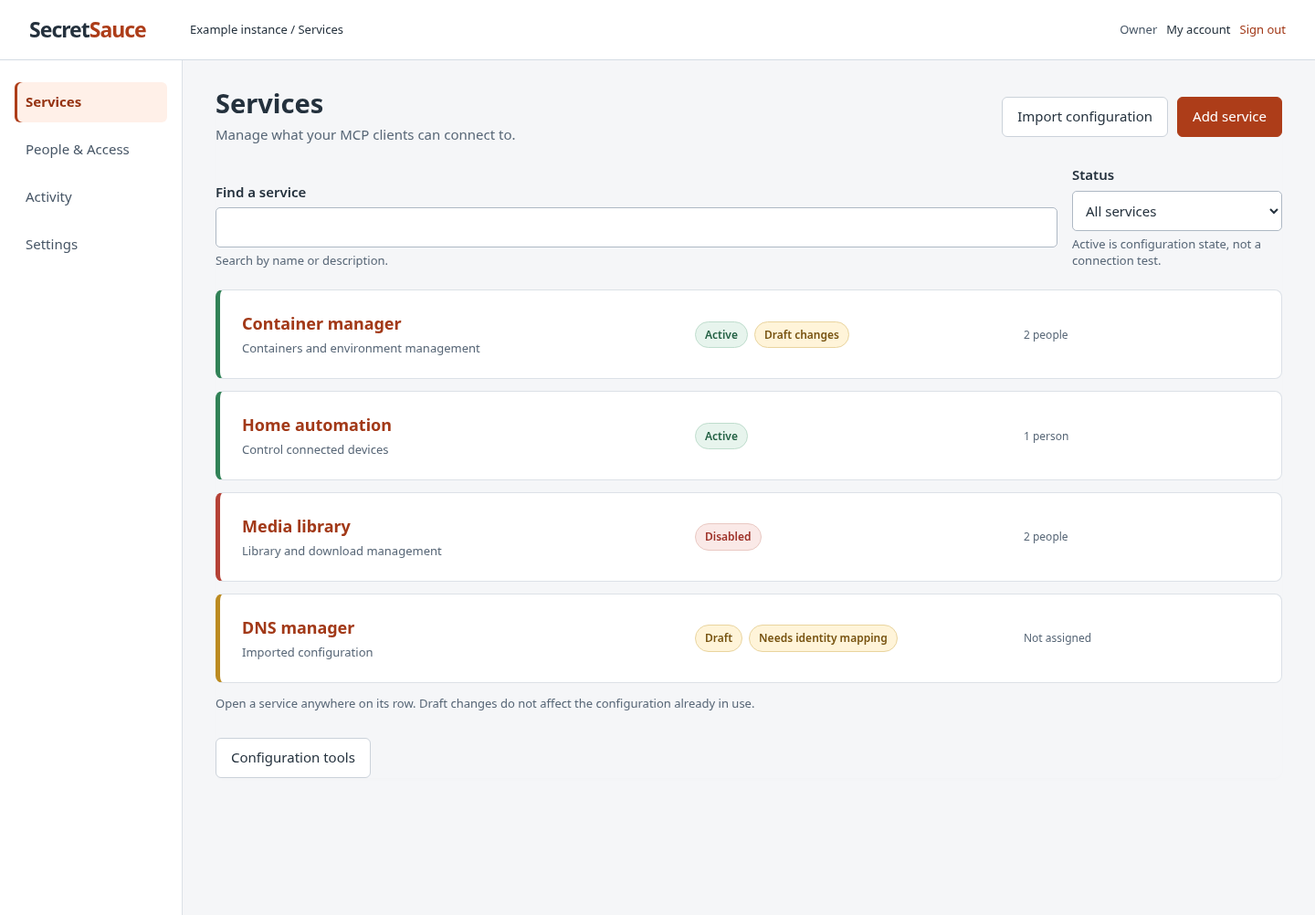
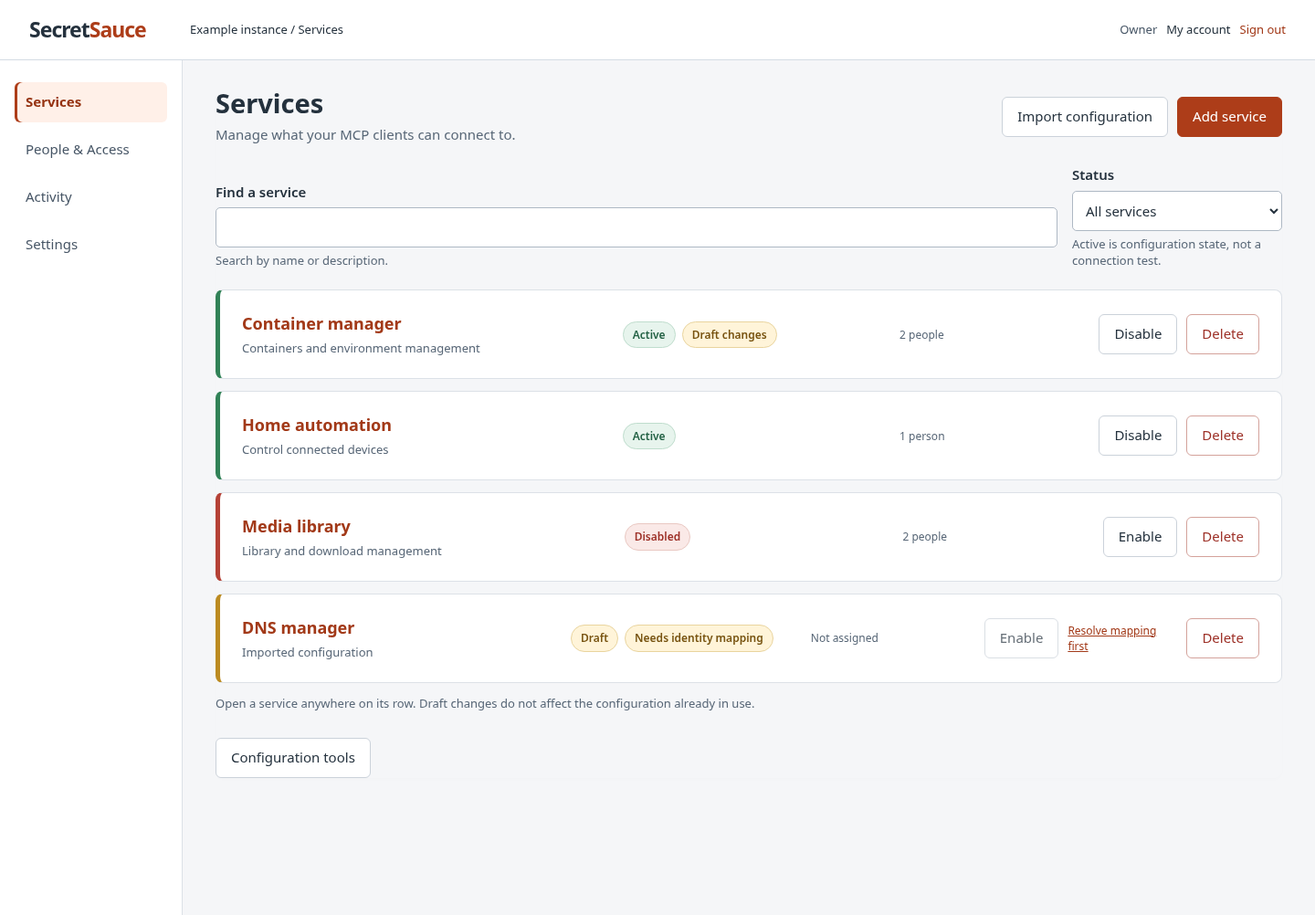
delivery: M26 confirm service lifecycle row actions

diff --git a/src/consoleServicePage.ts b/src/consoleServicePage.ts
@@ -21,9 +21,10 @@ function dialog(title,message,buttons){const focus=document.activeElement,d=el('
 function confirmAction(title,message,fn){dialog(title,message,[['Cancel',null],[title,fn]]);}
 function leaveEditor(fn){if(accountDirty){leaveAccount(()=>leaveEditor(fn));return;}if(settingsDirty){leaveSettings(()=>leaveEditor(fn));return;}if(editorDirty){dialog('Unsaved draft changes','Stay to keep editing, save non-secret work as a draft, or discard these edits. Credential values and immediate actions are never undone by discard.',[['Stay',null],['Save draft',async()=>{try{await saveEditor();serviceEditor=null;await fn();}catch(e){serviceError(e);}}],['Discard',async()=>{editorDirty=false;serviceEditor=null;await fn();}]]);}else{serviceEditor=null;fn();}}
 function validateFields(f){const invalid=[...f.querySelectorAll('input,select')].filter(n=>!n.checkValidity());if(!invalid.length)return true;showError('Complete the highlighted fields before continuing.');for(const n of invalid){for(let d=n.closest('details');d;d=d.parentElement?.closest('details'))d.open=true;n.setAttribute('aria-invalid','true');const label=f.querySelector('label[for="'+n.id+'"]')?.textContent??n.name;const message=el('p','Check '+label+'.');message.id=n.id+'-error';document.getElementById(message.id)?.remove();const described=new Set((n.getAttribute('aria-describedby')||'').split(' ').filter(Boolean));described.add(message.id);n.setAttribute('aria-describedby',[...described].join(' '));n.after(message);const a=el('a','Check '+label);a.href='#'+n.id;a.onclick=e=>{e.preventDefault();n.focus();};errors.append(a,el('br'));}return false;}
-function serviceError(error){if(serviceEditor&&error.message.startsWith('mappings:')){showError(error.message,error.operation);action(errors,'Resolve identity mappings',()=>openMappingRecovery(serviceEditor.id));return;}if(/Forbidden|Sign in again/.test(error.message)){serviceEditor=null;editorDirty=false;if(servicesSnapshot)servicesSnapshot.writable=false;start().then(()=>showError(error.message,error.operation));return;}showError(error.message,error.operation);if(serviceEditor&&/Invalid|incomplete/.test(error.message)){for(let i=0;i<4;i++)action(errors,'Check '+steps[i],()=>renderEditor(i));}if(error.comparison){const box=el('div');box.append(el('h2','Current and proposed comparison'));renderConfig(box,'Current applied configuration',error.comparison.applied);renderConfig(box,'Your proposed configuration',serviceEditor?.service);action(box,'Reload current revision for review',async()=>{try{const d=await api('services/'+encodeURIComponent(serviceEditor.id));serviceEditor.base=d.revision;serviceEditor.generation=d.draft?.generation??0;if(d.applied)serviceEditor.service.access={users:d.assignments};editorDirty=true;renderEditor(serviceEditor.step);}catch(e){serviceError(e);}});errors.append(box);}else if(/Connection|fetch|network/i.test(error.message)){errors.append(el('p','Result may be unknown. Reload the target and inspect its latest state or operation status before repeating an immediate action.'));action(errors,'Reload service state',()=>leaveEditor(()=>serviceDetail(serviceEditor?.id)));}}
+function serviceError(error){if(serviceEditor&&error.message.startsWith('mappings:')){showError(error.message,error.operation);action(errors,'Resolve identity mappings',()=>openMappingRecovery(serviceEditor.id));return;}if(/Forbidden|Sign in again/.test(error.message)){serviceEditor=null;editorDirty=false;if(servicesSnapshot)servicesSnapshot.writable=false;start().then(()=>showError(error.message,error.operation));return;}showError(error.message,error.operation);if(serviceEditor&&/Invalid|incomplete/.test(error.message)){for(let i=0;i<4;i++)action(errors,'Check '+steps[i],()=>renderEditor(i));}if(error.comparison&&serviceEditor){const box=el('div');box.append(el('h2','Current and proposed comparison'));renderConfig(box,'Current applied configuration',error.comparison.applied);renderConfig(box,'Your proposed configuration',serviceEditor?.service);action(box,'Reload current revision for review',async()=>{try{const d=await api('services/'+encodeURIComponent(serviceEditor.id));serviceEditor.base=d.revision;serviceEditor.generation=d.draft?.generation??0;if(d.applied)serviceEditor.service.access={users:d.assignments};editorDirty=true;renderEditor(serviceEditor.step);}catch(e){serviceError(e);}});errors.append(box);}else if(/Connection|fetch|network/i.test(error.message)){errors.append(el('p','Result may be unknown. Reload the target and inspect its latest state or operation status before repeating an immediate action.'));action(errors,'Reload service state',()=>leaveEditor(()=>serviceDetail(serviceEditor?.id)));}}
 let serviceListFilter={search:'',status:'all'};
 async function services(state){
+ if(new URLSearchParams(location.search).has('service')){const url=new URL(location.href);url.searchParams.delete('service');history.replaceState(history.state,'',url);}
  currentNav('services-nav');workspaceState=state??workspaceState;serviceEditor=null;editorDirty=false;form('Services').remove();
  const title=el('div');title.className='services-title';const copy=el('div');copy.append(el('h1','Services'));copy.append(el('p','Manage what your MCP clients can connect to.'));title.append(copy);content.append(title);
  content.setAttribute('aria-busy','true');try{
@@ -32,10 +33,19 @@ async function services(state){
  const rows=el('div');rows.className='service-list';content.append(rows);
  function render(){serviceListFilter={search:search.value,status:status.value};rows.replaceChildren();const matches=servicesSnapshot.services.filter(s=>(status.value==='all'||s.lifecycle===status.value)&&(s.name+' '+s.description+' '+s.id).toLowerCase().includes(search.value.toLowerCase()));if(!matches.length)rows.append(el('p','No services match. Clear filters or add a service when permitted.'));
  for(const s of matches){const row=el('article');row.className='service-row lifecycle-row';row.dataset.lifecycle=s.lifecycle;const info=el('div'),states=el('div');states.className='service-chips';const h=el('h2');if(!member){const link=el('a',s.name);link.href='?service='+encodeURIComponent(s.id);link.setAttribute('aria-label','Open '+s.name);link.onclick=e=>{if(e.button!==0||e.ctrlKey||e.metaKey||e.shiftKey||e.altKey)return;e.preventDefault();serviceDetail(s.id);};h.append(link);}else h.textContent=s.name;info.append(h,el('p',s.description||'No description'));
- function chip(text,kind){const n=el('span',text);n.className='service-chip '+kind;states.append(n);}chip(s.lifecycle,s.lifecycle==='Active'?'active':s.lifecycle==='Draft'?'pending':'off');if(s.hasDraft&&s.lifecycle!=='Draft')chip('Draft changes','pending');if(s.readiness==='Value missing')chip('Value missing','pending');else if(s.activationBlocker&&!member)chip(s.activationBlocker.includes('mapping')?'Needs identity mapping':'Needs configuration','pending');const count=el('span',s.assignmentCount?s.assignmentCount+' '+(s.assignmentCount===1?'person':'people'):'Not assigned');count.className='service-count';row.append(info,states,count);rows.append(row);}}
+ function chip(text,kind){const n=el('span',text);n.className='service-chip '+kind;states.append(n);}chip(s.lifecycle,s.lifecycle==='Active'?'active':s.lifecycle==='Draft'?'pending':'off');if(s.hasDraft&&s.lifecycle!=='Draft')chip('Draft changes','pending');if(s.readiness==='Value missing')chip('Value missing','pending');else if(s.activationBlocker&&!member)chip(s.activationBlocker.includes('mapping')?'Needs identity mapping':'Needs configuration','pending');const count=el('span',s.assignmentCount?s.assignmentCount+' '+(s.assignmentCount===1?'person':'people'):'Not assigned');count.className='service-count';row.append(info,states,count);if(servicesSnapshot.writable){const controls=el('div');controls.className='services-row-actions';if(s.lifecycle==='Archived')action(controls,'Restore',()=>serviceRowAction(s,'unarchive'));else{const enabling=s.lifecycle!=='Active';const b=action(controls,enabling?'Enable':'Disable',()=>serviceRowAction(s,enabling?'enable':'disable'));if(enabling&&s.activationBlocker){b.disabled=true;const reason=el('span',s.activationBlocker);reason.className='service-blocker';reason.id='service-blocker-'+rows.children.length;b.setAttribute('aria-describedby',reason.id);const fix=el('a',s.activationBlocker.includes('mapping')?'Resolve mapping first':s.activationBlocker);fix.id=reason.id;fix.className='service-blocker';fix.href='?service='+encodeURIComponent(s.id);fix.onclick=e=>{e.preventDefault();s.activationBlocker.includes('mapping')?openMappingRecovery(s.id):serviceDetail(s.id,'Configuration');};controls.append(fix);}const del=action(controls,'Delete',()=>serviceRowAction(s,'archive'));del.classList.add('danger');}row.append(controls);}rows.append(row);}}
  search.oninput=render;status.onchange=render;render();content.append(el('p','Open a service anywhere on its row. Draft changes do not affect the configuration already in use.'));if(!member)action(content,'Configuration tools',()=>configurationTools());
  }catch(e){serviceError(e);}finally{content.removeAttribute('aria-busy');editorDirty=false;}}
-async function serviceDetail(id,tab='Overview'){currentNav('services-nav');try{if(!id){await services();return;}const d=await api('services/'+encodeURIComponent(id));form(d.applied?.name??d.draft?.content.name??id);content.append(el('p','Service: '+id+' · '+d.lifecycle+' · Applied revision '+d.revision+' · '+(d.draft?'Saved draft changes':'No saved draft changes')));const tabs=el('nav');tabs.className='tabs';tabs.setAttribute('aria-label','Service detail');for(const name of ['Overview','Configuration','Access','Activity']){const b=action(tabs,name,()=>serviceDetail(id,name));if(name===tab)b.setAttribute('aria-current','page');}content.append(tabs);const writable=servicesSnapshot?.writable;if(d.mappingIssues?.length){const notice=el('div');notice.className='mapping-callout';notice.append(el('h2','Choose who the imported accounts refer to'),el('p',d.mappingIssues.length+' identity mapping(s) need attention before review.'));action(notice,'Resolve identity mappings',()=>openMappingRecovery(id));content.append(notice);}if(tab==='Overview'){renderConfig(content,'Applied overview',d.applied);if(d.exceptions.length)content.append(el('p','Active exceptions: '+d.exceptions.join('; ')));if(writable){if(d.lifecycle!=='Archived')action(content,d.applied?'Edit configuration':'Continue setup',()=>editService(d),false);const lifecycleAction=d.lifecycle==='Archived'?'unarchive':'disable';if(d.lifecycle==='Active'||d.lifecycle==='Archived')action(content,lifecycleAction==='unarchive'?'Unarchive service':'Disable service',()=>confirmAction(lifecycleAction==='unarchive'?'Unarchive service':'Disable service','Target: '+id+'. '+(lifecycleAction==='unarchive'?'Returns to Disabled. A fresh review is required to enable.':'Immediately stop new admissions and revoke references. Already-dispatched work may complete. Discarding drafts cannot undo this action.'),()=>serviceCommand('lifecycle',{id,action:lifecycleAction,confirmed:true},()=>serviceDetail(id))));if(d.lifecycle!=='Archived')action(content,'Archive service',()=>confirmAction('Archive service','Target: '+id+'. Stop new admission and revoke references immediately. History is retained; unarchive returns Disabled.',()=>serviceCommand('lifecycle',{id,action:'archive',confirmed:true},()=>serviceDetail(id))));}}if(tab==='Configuration'){action(content,'Safe policy tester',()=>policyTester(id));action(content,'Configuration tools',()=>configurationTools());content.append(el('p','Secret detection inherits shared Secretlint and sensitive-name catalogs from Settings. Active per-rule exceptions are included below.'));action(content,'View shared secret detection',()=>settings('protection'));renderConfig(content,'Applied configuration',d.applied);renderConfig(content,'Saved draft',d.draft?.content);if(writable&&d.lifecycle!=='Archived')action(content,'Edit configuration',()=>editService(d),false);content.append(el('h2','Credential values'),el('p','Values are write-only. Discarding a draft never undoes creation, replacement or deletion.'));for(const c of d.credentials){const row=el('article');row.className='card';row.append(el('h3',c.id),el('p','Available · Version '+c.version+' · Last changed '+new Date(c.changed).toLocaleString()));if(writable){const value=editField(row,'New value for '+c.id,'replace-'+c.id,'',()=>{},false,'password');action(row,'Replace value '+c.id,()=>confirmAction('Replace value','Target: '+id+' / '+c.id+'. Immediately invalidate affected references; the value will never be shown again.',async()=>{const secret=value.value;value.value='';await serviceCommand('credential',{id,credential:c.id,action:'replace',value:secret,confirmed:true},()=>serviceDetail(id,'Configuration'));}));action(row,'Delete value '+c.id,()=>confirmAction('Delete value','Target: '+id+' / '+c.id+'. Immediate deletion. Configuration dependencies must be removed and applied first.',()=>serviceCommand('credential',{id,credential:c.id,action:'delete',confirmed:true},()=>serviceDetail(id,'Configuration'))));}content.append(row);}}if(tab==='Access'){content.append(el('p','Explicit assignments control execution separately from administrative roles.'));for(const user of d.assignments){const label=servicesSnapshot?.eligible.find(u=>u.id===user)?.email??user;content.append(el('p','Assigned: '+label));if(writable)action(content,'Remove access '+label,()=>confirmAction('Remove access','Target: '+id+' / '+label+'. Block new admission and revoke this identity’s references immediately. Dispatched work may complete.',()=>serviceCommand('access',{id,user,action:'remove',confirmed:true},()=>serviceDetail(id,'Access'))));}if(writable&&d.applied){const targets=(servicesSnapshot?.eligible??[]).filter(u=>!d.assignments.includes(u.id));if(targets.length){const select=choice(content,'Eligible enrolled identity','access-user',targets.map(u=>[u.id,u.email+' · '+u.role]),targets[0].id,()=>{});action(content,'Grant service access',()=>confirmAction('Grant service access','Target: '+id+'. Explicitly grant execution to the selected eligible identity immediately; policy still applies.',()=>serviceCommand('access',{id,user:select.value,action:'grant',confirmed:true},()=>serviceDetail(id,'Access'))));}}}if(tab==='Activity'){await activity(id);content.prepend(tabs);action(content,'Back to Services',()=>services());return;}action(content,'Back to Services',()=>services());editorDirty=false;}catch(e){serviceError(e);}}
+async function serviceRowAction(s,kind){
+ const verb={archive:'Delete',disable:'Disable',unarchive:'Restore',enable:'Enable'}[kind];
+ const message=kind==='archive'?'This removes the service from normal use and immediately blocks new requests and revokes references. Its configuration, history and audit records are retained in Archived services. You can restore it later. A restored service is Disabled until you explicitly review and enable it.':kind==='disable'?'New requests will be blocked and references revoked immediately. Already-dispatched work may complete. Current draft changes will be kept.':kind==='unarchive'?'Restore this service as Disabled. Requests remain blocked until you explicitly review the current configuration and dependencies and enable it.':'Review the current configuration and dependencies before enabling requests. No saved draft is applied silently. If draft changes exist, review them explicitly before applying.';
+ dialog(verb+' '+s.name+'?',message,[['Cancel',null],[kind==='enable'?'Review and enable':verb+' service',async()=>{
+ try{if(kind==='enable'){const d=await api('services/'+encodeURIComponent(s.id));if(d.mappingFingerprint!==s.fingerprint)throw Error('Service or dependencies changed. Refresh the list and review again.');editService(d);banner.textContent='Review the configuration before enabling. Saving a draft does not enable this service.';return;}
+ const r=await api('service/lifecycle',{id:s.id,action:kind,fingerprint:s.fingerprint,confirmed:true});await services();banner.textContent=verb==='Restore'?'Service restored as Disabled. Review before enabling.':verb+' completed.';document.querySelector('.services-title h1')?.setAttribute('tabindex','-1');document.querySelector('.services-title h1')?.focus();
+ }catch(e){showError(e.message,e.operation);errors.append(el('p','The list may be out of date. Refresh current service state before trying again; a lost response does not mean the action failed.'));action(errors,'Refresh service state',async()=>{await services();banner.textContent='Current service state loaded. Review it before choosing another action.';});}
+ }]]);
+}
+async function serviceDetail(id,tab='Overview'){currentNav('services-nav');try{if(!id){await services();return;}const d=await api('services/'+encodeURIComponent(id));form(d.applied?.name??d.draft?.content.name??id);content.append(el('p','Service: '+id+' · '+d.lifecycle+' · Applied revision '+d.revision+' · '+(d.draft?'Saved draft changes':'No saved draft changes')));const tabs=el('nav');tabs.className='tabs';tabs.setAttribute('aria-label','Service detail');for(const name of ['Overview','Configuration','Access','Activity']){const b=action(tabs,name,()=>serviceDetail(id,name));if(name===tab)b.setAttribute('aria-current','page');}content.append(tabs);const writable=servicesSnapshot?.writable;if(d.mappingIssues?.length){const notice=el('div');notice.className='mapping-callout';notice.append(el('h2','Choose who the imported accounts refer to'),el('p',d.mappingIssues.length+' identity mapping(s) need attention before review.'));action(notice,'Resolve identity mappings',()=>openMappingRecovery(id));content.append(notice);}if(tab==='Overview'){renderConfig(content,'Applied overview',d.applied);if(d.exceptions.length)content.append(el('p','Active exceptions: '+d.exceptions.join('; ')));if(writable){if(d.lifecycle!=='Archived')action(content,d.applied?'Edit configuration':'Continue setup',()=>editService(d),false);const lifecycleAction=d.lifecycle==='Archived'?'unarchive':'disable';if(d.lifecycle==='Active'||d.lifecycle==='Archived')action(content,lifecycleAction==='unarchive'?'Unarchive service':'Disable service',()=>confirmAction(lifecycleAction==='unarchive'?'Unarchive service':'Disable service','Target: '+id+'. '+(lifecycleAction==='unarchive'?'Returns to Disabled. A fresh review is required to enable.':'Immediately stop new admissions and revoke references. Already-dispatched work may complete. Discarding drafts cannot undo this action.'),()=>serviceCommand('lifecycle',{id,action:lifecycleAction,fingerprint:d.mappingFingerprint,confirmed:true},()=>serviceDetail(id))));if(d.lifecycle!=='Archived')action(content,'Archive service',()=>confirmAction('Archive service','Target: '+id+'. Stop new admission and revoke references immediately. History is retained; unarchive returns Disabled.',()=>serviceCommand('lifecycle',{id,action:'archive',fingerprint:d.mappingFingerprint,confirmed:true},()=>serviceDetail(id))));}}if(tab==='Configuration'){action(content,'Safe policy tester',()=>policyTester(id));action(content,'Configuration tools',()=>configurationTools());content.append(el('p','Secret detection inherits shared Secretlint and sensitive-name catalogs from Settings. Active per-rule exceptions are included below.'));action(content,'View shared secret detection',()=>settings('protection'));renderConfig(content,'Applied configuration',d.applied);renderConfig(content,'Saved draft',d.draft?.content);if(writable&&d.lifecycle!=='Archived')action(content,'Edit configuration',()=>editService(d),false);content.append(el('h2','Credential values'),el('p','Values are write-only. Discarding a draft never undoes creation, replacement or deletion.'));for(const c of d.credentials){const row=el('article');row.className='card';row.append(el('h3',c.id),el('p','Available · Version '+c.version+' · Last changed '+new Date(c.changed).toLocaleString()));if(writable){const value=editField(row,'New value for '+c.id,'replace-'+c.id,'',()=>{},false,'password');action(row,'Replace value '+c.id,()=>confirmAction('Replace value','Target: '+id+' / '+c.id+'. Immediately invalidate affected references; the value will never be shown again.',async()=>{const secret=value.value;value.value='';await serviceCommand('credential',{id,credential:c.id,action:'replace',value:secret,confirmed:true},()=>serviceDetail(id,'Configuration'));}));action(row,'Delete value '+c.id,()=>confirmAction('Delete value','Target: '+id+' / '+c.id+'. Immediate deletion. Configuration dependencies must be removed and applied first.',()=>serviceCommand('credential',{id,credential:c.id,action:'delete',confirmed:true},()=>serviceDetail(id,'Configuration'))));}content.append(row);}}if(tab==='Access'){content.append(el('p','Explicit assignments control execution separately from administrative roles.'));for(const user of d.assignments){const label=servicesSnapshot?.eligible.find(u=>u.id===user)?.email??user;content.append(el('p','Assigned: '+label));if(writable)action(content,'Remove access '+label,()=>confirmAction('Remove access','Target: '+id+' / '+label+'. Block new admission and revoke this identity’s references immediately. Dispatched work may complete.',()=>serviceCommand('access',{id,user,action:'remove',confirmed:true},()=>serviceDetail(id,'Access'))));}if(writable&&d.applied){const targets=(servicesSnapshot?.eligible??[]).filter(u=>!d.assignments.includes(u.id));if(targets.length){const select=choice(content,'Eligible enrolled identity','access-user',targets.map(u=>[u.id,u.email+' · '+u.role]),targets[0].id,()=>{});action(content,'Grant service access',()=>confirmAction('Grant service access','Target: '+id+'. Explicitly grant execution to the selected eligible identity immediately; policy still applies.',()=>serviceCommand('access',{id,user:select.value,action:'grant',confirmed:true},()=>serviceDetail(id,'Access'))));}}}if(tab==='Activity'){await activity(id);content.prepend(tabs);action(content,'Back to Services',()=>services());return;}action(content,'Back to Services',()=>services());editorDirty=false;}catch(e){serviceError(e);}}
 async function openMappingRecovery(id){
  if(editorDirty){dialog('Keep your draft edits','Save your non-secret configuration changes before resolving imported identities.',[['Stay',null],['Save draft and continue',async()=>{try{await saveEditor();await mappingRecovery(id);}catch(e){serviceError(e);}}]]);return;}
  await mappingRecovery(id);

diff --git a/src/consolePresentation.ts b/src/consolePresentation.ts
@@ -16,8 +16,8 @@ export const consolePresentationStyle = `
 @media(max-width:700px){header strong{width:auto}.account-actions{margin-left:0;flex-wrap:wrap}#workspace-location{width:100%}.workspace{display:block}.workspace>nav{flex-direction:row;flex-wrap:wrap;padding:14px;gap:4px}.workspace>nav button{padding:7px 9px}header{padding:12px 16px;flex-wrap:wrap;gap:12px}main{padding:20px 16px}h1{font-size:29px}.card,section,#content>form:not(.service-form),.settings-panel form{padding:18px}#content{padding:0}.settings-layout{display:block}}
 `;
 export const consoleServicePresentationStyle = `
-main:has(.services-title)>h1{display:none}.services-title{display:flex;justify-content:space-between;align-items:center;gap:18px;margin-bottom:22px}.services-title h1{margin:0}.services-title p{color:#586777;margin:6px 0 0}.services-row-actions{display:flex;gap:10px;align-items:center;flex-wrap:wrap}.services-row-actions button{margin:0}.services-toolbar{display:flex;align-items:end;gap:16px;margin-bottom:22px}.services-toolbar>div{flex:1;min-width:0}.services-toolbar>div:last-child{max-width:230px}.services-toolbar label{margin:0 0 6px}.services-toolbar p{font-size:13px;color:#586777;margin:5px 0 0}.lifecycle-row{position:relative;display:grid;grid-template-columns:minmax(0,1.4fr) minmax(0,1fr) minmax(0,.7fr) auto;gap:20px;padding:23px 24px;background:white;border:1px solid #dce1e7;border-left:5px solid #318257;border-radius:8px;margin:0 0 13px}.lifecycle-row[data-lifecycle=Disabled],.lifecycle-row[data-lifecycle=Archived]{border-left-color:#b54136}.lifecycle-row[data-lifecycle=Draft]{border-left-color:#bc8b21}.lifecycle-row h2{font-size:18px;margin:0 0 5px}.lifecycle-row p{font-size:13px;margin:0;color:#586777}.lifecycle-row h2 a{text-decoration:none}.lifecycle-row h2 a:after{content:'';position:absolute;inset:0}.service-chips{display:flex;gap:7px;flex-wrap:wrap}.service-chip{font-size:12px;font-weight:600;border-radius:20px;padding:5px 10px;display:inline-block;background:#e7f4ed;color:#236144;border:1px solid #bfddcd}.service-chip.pending{background:#fff4d9;color:#775310;border-color:#e9d49e}.service-chip.off{background:#fae9e7;color:#9d3027;border-color:#e9c8c2}.service-count{font-size:12px;color:#586777}.lifecycle-row .services-row-actions{position:relative;z-index:1}.lifecycle-row .services-row-actions a{position:relative}.lifecycle-row button.danger{color:#9d3027;border-color:#d4a29b}.service-list+p{font-size:13px;color:#586777}.lifecycle-row button:disabled{cursor:not-allowed}
-@media(max-width:1100px){.lifecycle-row{grid-template-columns:1fr 1fr}}@media(max-width:700px){.services-title{align-items:flex-start;flex-direction:column}.services-toolbar{align-items:stretch;flex-direction:column}.services-toolbar>div:last-child{max-width:none}.lifecycle-row{grid-template-columns:1fr;padding:18px;gap:12px}.lifecycle-row>div{margin:0}.services-row-actions{width:100%}.services-row-actions button{flex:1}.lifecycle-row button{margin:0}}
+main:has(.services-title)>h1{display:none}.services-title{display:flex;justify-content:space-between;align-items:center;gap:18px;margin-bottom:22px}.services-title h1{margin:0}.services-title p{color:#586777;margin:6px 0 0}.services-row-actions{display:flex;gap:10px;align-items:center;flex-wrap:wrap}.services-row-actions button{margin:0}.services-toolbar{display:flex;align-items:end;gap:16px;margin-bottom:22px}.services-toolbar>div{flex:1;min-width:0}.services-toolbar>div:last-child{max-width:230px}.services-toolbar label{margin:0 0 6px}.services-toolbar p{font-size:13px;color:#586777;margin:5px 0 0}.lifecycle-row{position:relative;display:grid;grid-template-columns:minmax(0,1.4fr) minmax(0,1fr) minmax(0,.7fr) auto;gap:20px;padding:23px 24px;background:white;border:1px solid #dce1e7;border-left:5px solid #318257;border-radius:8px;margin:0 0 13px}.lifecycle-row[data-lifecycle=Disabled],.lifecycle-row[data-lifecycle=Archived]{border-left-color:#b54136}.lifecycle-row[data-lifecycle=Draft]{border-left-color:#bc8b21}.lifecycle-row h2{font-size:18px;margin:0 0 5px}.lifecycle-row p{font-size:13px;margin:0;color:#586777}.lifecycle-row h2 a{text-decoration:none}.lifecycle-row h2 a:after{content:'';position:absolute;inset:0}.service-chips{display:flex;gap:7px;flex-wrap:wrap}.service-chip{font-size:12px;font-weight:600;border-radius:20px;padding:5px 10px;display:inline-block;background:#e7f4ed;color:#236144;border:1px solid #bfddcd}.service-chip.pending{background:#fff4d9;color:#775310;border-color:#e9d49e}.service-chip.off{background:#fae9e7;color:#9d3027;border-color:#e9c8c2}.service-count{font-size:12px;color:#586777}.lifecycle-row .services-row-actions{position:relative;z-index:1}.lifecycle-row .services-row-actions a{position:relative}.lifecycle-row button.danger{color:#9d3027;border-color:#d4a29b}.service-list+p{font-size:13px;color:#586777}.lifecycle-row button:disabled{cursor:not-allowed}.service-blocker{font-size:12px;max-width:120px}.lifecycle-row .services-row-actions a{font-size:12px}.lifecycle-row .services-row-actions{max-width:340px}
+@media(max-width:1100px){.lifecycle-row{grid-template-columns:1fr 1fr}}@media(max-width:700px){.services-title{align-items:flex-start;flex-direction:column}.services-toolbar{align-items:stretch;flex-direction:column}.services-toolbar>div:last-child{max-width:none}.lifecycle-row{grid-template-columns:1fr;padding:18px;gap:12px}.lifecycle-row>div{margin:0}.services-row-actions{width:100%}.services-row-actions button{flex:1}.services-title .services-row-actions button{flex:0 1 auto}.lifecycle-row button{margin:0}}
 
 .mapping-recovery{min-width:0}main:has(.mapping-recovery)>h1{display:none}.mapping-recovery>a:first-child{display:inline-block;margin-bottom:14px}.mapping-recovery h1{margin:0}.mapping-states{float:right;display:flex;gap:7px}.mapping-states .settings-state{margin:0}.mapping-recovery>p{min-height:32px}.mapping-fields code{background:#f5f6f8;border:1px solid #dce1e7;border-radius:5px;padding:14px;margin:12px 0}.mapping-card>p:last-child{font-size:13px}.mapping-card>p{color:#24313d}.mapping-card>p:nth-child(2){color:#586777}@media(max-width:700px){.mapping-states{float:none;margin:12px 0}.mapping-recovery>p{min-height:0}}.mapping-recovery>p{color:#586777;margin:8px 0 22px}.mapping-tabs{display:flex;flex-direction:row;flex-wrap:wrap;gap:24px;min-height:0;padding:0;background:transparent;border-bottom:1px solid #dce1e7;margin-bottom:24px}.mapping-tabs a{padding:12px 0;color:#475666;text-decoration:none}.mapping-tabs a[aria-current=page]{border-left:0!important;border-bottom:3px solid #ad3d19;background:transparent!important;color:#953211!important;text-decoration:none}.mapping-callout{border:1px solid #e3c68c;border-left:4px solid #b3770c;background:#fff9ed;border-radius:6px;padding:17px 20px;margin:0 0 22px}.mapping-callout h2{font-size:17px;margin:0 0 5px}.mapping-callout p{margin:6px 0}.mapping-card{margin:0 0 20px;padding:22px;border-color:#dce1e7;border-radius:9px}.mapping-card h2{margin:0 0 12px;font-size:20px}.mapping-card p{margin:6px 0 16px;color:#586777}.mapping-fields{display:grid;grid-template-columns:1fr 1fr;gap:20px}.mapping-fields>div{min-width:0}.mapping-fields label{margin:0 0 6px}.mapping-fields p{font-size:13px;margin:5px 0 0}.mapping-fields code{display:block;white-space:pre-wrap;overflow-wrap:anywhere}.mapping-actions{display:flex;align-items:center;gap:16px;flex-wrap:wrap;border-top:1px solid #e1e5eb;padding-top:16px;margin-top:16px}.mapping-actions button{margin:0}.mapping-recovery .required-legend{display:none}@media(max-width:700px){.mapping-fields{grid-template-columns:1fr;gap:16px}.mapping-card{padding:18px}.mapping-tabs{gap:16px}.mapping-actions{align-items:flex-start}}
 

diff --git a/test/console-services.test.ts b/test/console-services.test.ts
@@ -75,3 +75,14 @@ it('lists independent lifecycle, pending changes and readiness without leaking v
  f.store.state.users[0]!.role='Auditor';expect(f.manager.list(f.session).writable).toBe(false);
  f.store.state.users[0]!.role='Member';expect(f.manager.list(f.session).services[0]).toMatchObject({hasDraft:false});expect(f.manager.list(f.session).services[0]).not.toHaveProperty('activationBlocker');s.assignments=[];expect(f.manager.list(f.session).services).toHaveLength(0);
 }finally{f.close();}});
+
+it('binds lifecycle confirmations to current dependencies and retains archive/restore review safeguards',()=>{const f=managedFixture();try{
+ const input={id:'baseline',action:'disable',confirmed:true,fingerprint:f.manager.fingerprint('baseline')};
+ f.manager.save(f.session,{id:'baseline',base:0,generation:0,service:draft()});expect(()=>f.manager.lifecycle(f.session,input)).toThrow('Stale');expect(f.manager.state.services.baseline!.lifecycle).toBe('Active');
+ for(const fingerprint of ['invalid',17,'a'.repeat(65)])expect(()=>f.manager.lifecycle(f.session,{...input,fingerprint})).toThrow('Invalid');
+ for(const role of ['Auditor','Member'] as const){f.store.state.users[0]!.role=role;expect(()=>f.manager.lifecycle(f.session,{...input,fingerprint:undefined})).toThrow('Forbidden');}f.store.state.users[0]!.role='Administrator';
+ f.manager.lifecycle(f.session,{...input,fingerprint:f.manager.fingerprint('baseline')});expect(f.manager.state.services.baseline!.lifecycle).toBe('Disabled');expect(f.cfg.services.baseline).toBeUndefined();
+ f.manager.lifecycle(f.session,{...input,action:'archive',fingerprint:f.manager.fingerprint('baseline')});expect(f.manager.state.services.baseline!.draft).toBeDefined();expect(f.manager.state.services.baseline!.applied).toBeDefined();expect(()=>f.manager.review(f.session,{id:'baseline'})).toThrow('archived');
+ f.manager.lifecycle(f.session,{...input,action:'unarchive',fingerprint:f.manager.fingerprint('baseline')});expect(f.manager.state.services.baseline!.lifecycle).toBe('Disabled');expect(f.cfg.services.baseline).toBeUndefined();expect(()=>f.manager.lifecycle(f.session,{...input,action:'enable'})).toThrow('Invalid');
+ expect(()=>f.manager.review(f.session,{id:'baseline'})).toThrow('Stale');expect(f.store.journal.entries().some(e=>e.action==='service.archive')).toBe(true);
+}finally{f.close();}});

diff --git a/src/consoleServices.ts b/src/consoleServices.ts
@@ -51,7 +51,7 @@ export class ConsoleServices {
   }
   fingerprint(id: string): string {
     const s = own(this.state.services, id);
-    return digest(JSON.stringify({ revision: this.state.revision, lifecycle: s?.lifecycle, assignments: s?.assignments,
+    return digest(JSON.stringify({ revision: this.state.revision, lifecycle: s?.lifecycle, draftGeneration: s?.draft?.generation, assignments: s?.assignments,
       values: Object.entries(s?.values ?? {}).map(([key, v]) => [key, v.version]),
       users: this.store.state.users.map(u => ({ id: u.id, role: u.role, active: u.active, enrolled:u.enrolled, authorizationGeneration:u.authorizationGeneration??0 })), external:this.store.state.people?.external.map(e=>({id:e.id,issuer:e.issuer,subject:e.subject,active:e.active,authorizationGeneration:e.authorizationGeneration??0})) }));
   }
@@ -232,8 +232,9 @@ export class ConsoleServices {
   }
   lifecycle(session: ConsoleSession, input: unknown) {
     const actor = this.actor(session, true);
-    const data = this.parse(z.object({ id: idSchema, action: z.enum(['disable', 'archive', 'unarchive']), confirmed: z.literal(true) }).strict(), input);
+    const data = this.parse(z.object({ id: idSchema, action: z.enum(['disable', 'archive', 'unarchive']), fingerprint: z.string().regex(/^[a-f0-9]{64}$/).optional(), confirmed: z.literal(true) }).strict(), input);
     const s = own(this.state.services, data.id); if (!s) throw new ServiceManagementError('Service unavailable. Reload Services.');
+    if (data.fingerprint !== undefined && data.fingerprint !== this.fingerprint(data.id)) throw this.stale(session, data.id);
     if (data.action === 'unarchive' && s.lifecycle !== 'Archived') throw new ServiceManagementError('Only an Archived service can be unarchived.');
     if (data.action === 'disable' && s.lifecycle === 'Archived') throw new ServiceManagementError('Service archived. Unarchive returns it to Disabled.');
     const base = this.state.revision; let operation: string;

diff --git a/evidence/qa/secretsauce-mcp/milestone26/acceptance.md b/evidence/qa/secretsauce-mcp/milestone26/acceptance.md
@@ -1,0 +1,25 @@
+# M26 acceptance
+
+Source: REC-RM-016 / UX-C43 / CONFIG-05, approved UX4. Parent 7adde2bdb8733c1476b10aa686b5b894897f432e; slice 01 172210a. Tested source/reference hashes: tested-inputs.json.
+
+| Criterion | Evidence |
+|---|---|
+| Independent Active + draft and unavailable value/configuration | New service unit tests; lifecycle browser current state fixture, missing-value screenshot; no health probes |
+| Real keyboard row link, independent actions, retained filter/search | Lifecycle browser keyboard link and return; direct URL; actual dialog interaction; search remains Container |
+| Confirm Delete/Disable/Enable, retained archive and Disabled restore, Cancel no effect | Lifecycle browser Cancel/Escape and durable state checks; service runtime integration and service unit lifecycle test |
+| Current role/dependency checks, stale confirmation/history/restore protections | Lifecycle fingerprint includes draft generation and existing revision/identity/value dependencies; malformed/stale/demotion unit tests; Auditor direct HTTP 403; archived review and restored stale draft rejection; existing history/runtime tests |
+| Permission/state positive and negative, capability preservation and no output secrets | Focused 27 unit/API/runtime tests, exact advanced roundtrip tests; Member discovery/no grants, Auditor readonly and Owner/Administrator permissions. State views expose only availability. New fingerprint is optional for legacy callers; legacy commands still authorize and check current lifecycle; no direct enable command exists. |
+| Actual screenshots and responsive keyboard/text | Visual review + browser-report.json, approved desktop/narrow match, 320px/200% document/component/text-range checks |
+| Independent checkpoint | Existing review editor remains explicit Enable route; no later editor/credential-clearing redesign required. No deployment or live state used. |
+
+## Commands
+
+- npx vitest run test/console-services.test.ts test/console-services-http.test.ts test/console-service-runtime.test.ts --maxWorkers=2 — PASS, 27 tests (local loopback permission).
+- npm run build — PASS.
+- PLAYWRIGHT_BROWSERS_PATH=/tmp/secretsauce-feedback-browsers node scripts/verify-console-lifecycle-browser.mjs — PASS, isolated synthetic HTTPS, final screenshots.
+- PLAYWRIGHT_BROWSERS_PATH=/tmp/secretsauce-feedback-browsers CONSOLE_BROWSER_EVIDENCE_DIR=/tmp/m26-m25-regression node scripts/verify-console-import-recovery-browser.mjs — PASS, predecessor mapping flow.
+- PLAYWRIGHT_BROWSERS_PATH=/tmp/secretsauce-feedback-browsers CONSOLE_BROWSER_EVIDENCE_DIR=/tmp/m26-services-regression node scripts/verify-console-services-browser.mjs — PASS, 8 existing create/edit/lifecycle checks.
+- npm test -- --maxWorkers=2 — PASS, 730 tests across 73 files; 105.77 seconds, including pretest npm run build. No browser/Docker concurrent.
+
+## Limitations and corrections
+No transport/container/recovery format change; Docker crash/restore drill is unchanged and integrated M34 scope. External ChatGPT/Codex live validation exception remains unchanged. Browser lost-response fixture commits the same admitted lifecycle command then drops its response; subsequent UI refresh verifies durable state. Initial fixture attempted Playwright route.fetch without Node DNS mapping; corrected to local admitted-command injection. Initial row heading lifetime defect and narrow toolbar wrap were corrected before acceptance. Existing browser helper selectors now target real links instead of obsolete Open buttons; untouched journeys remain M34 integrated checks.

diff --git a/docs/console-advanced-configuration.md b/docs/console-advanced-configuration.md
@@ -29,3 +29,11 @@ Managed encrypted state is authoritative after migration and on restart. Old YAM
 Resource bounds reject excess work rather than rewriting expressions: each YAML source ≤256 KiB (catalog form inputs ≤128 KiB), no YAML aliases, depth24/node20000/collection512 budgets; service draft256 KiB,200 rules,100 host/path expressions per rule,2048-character policy/custom-pattern sources. Sensitive-name catalogs retain their existing256-pattern/512-character source bounds. Preview has4 concurrent workers and a1-second evaluation deadline. Sensitive-name response matching batches up to10000 names in4 workers with a1-second deadline; slots remain occupied through worker termination. Secretlint retains its bounded shared pool and configured deadlines. Deadline/capacity failures fail closed without returning unscanned responses. Already-dispatched responses retain their admitted catalog configuration and live pool identity.
 
 Exact/pattern response scanning is best-effort. Invertible encodings and downstream reflection can bypass it; trusted administrators choose destinations. It is not a universal guarantee that raw credentials cannot reach clients. Sensitive JSON processing continues to use tolerant scanner offsets and source-range replacement, preserving comments, duplicates, malformed separators and formatting outside replaced values.
+
+## Service list and lifecycle actions
+
+The service list shows lifecycle separately from saved draft changes and configuration attention. Active describes the applied configuration state, not a network health check. Value missing identifies unavailable applied authentication; a missing value only in a draft blocks that draft’s activation. Open a service through its name or row; search and status selection are retained when returning to the list.
+
+Owner and Administrator row actions require confirmation. Disable stops new requests and revokes references while keeping drafts; already-dispatched work may complete. Delete archives the service, retaining configuration, history and audit records. Use the Archived filter and Restore to return it as Disabled. Enable opens configuration for explicit review of current dependencies; it does not silently apply saved changes. Resolve the indicated mapping or configuration issue when Enable is unavailable.
+
+If a confirmation becomes stale or an action’s response is lost, refresh service state before trying again. A lost response is not proof that the change failed. Auditors have read-only service links; Members see only their permitted discovery, without administration controls.

diff --git a/evidence/ux-acceptance/secretsauce-mcp/milestone26/visual-review.md b/evidence/ux-acceptance/secretsauce-mcp/milestone26/visual-review.md
@@ -1,0 +1,9 @@
+# M26 actual browser comparison
+
+Reference: approved UX4 services-desktop.png (1440×1000), services-narrow.png (390×844), source hashes in QA tested-inputs.json. Actual: same filenames in this directory. Compared the actual PNGs directly against both references after the final toolbar correction.
+
+PASS: full-width workspace, 200px desktop navigation, 36px content inset, 29px title, muted subtitle, search/status toolbar, compact white rounded rows, left green/red/amber lifecycle bars, simultaneous separate Active/Draft changes chips, 18px linked service titles, descriptions and person counts, right aligned subordinate Disable/Delete controls. The mapping-blocked draft retains readable chips, disabled Enable and a corrective link in place of inert help. Row widths, columns, padding, density, type hierarchy and colors match the approved service composition. Narrow rows become stacked with usable sibling actions; the title toolbar retains natural-width buttons. No material unapproved drift remains.
+
+Known representation differences: proposal-only banner/footer omitted; established actual application header retains existing account/navigation arrangement instead of prototype shell order; Configuration tools remains reachable below the list to preserve existing functions. These do not alter the approved service task composition and are not new exceptions. No references were modified.
+
+Browser also checks keyboard link traversal, real direct URL, Cancel/Escape focus return, independent action hit targets and retained search. services-text200.png records 320px at 200% text, checking document scroll width, every visible component and text-node ranges. services-value-missing.png demonstrates lifecycle independently of readiness. All states are synthetic; no actual downstream health or external LLM claim.

diff --git a/delivery/plans/secretsauce-mcp/milestone_26_plan_01_slice_02.md b/delivery/plans/secretsauce-mcp/milestone_26_plan_01_slice_02.md
@@ -16,4 +16,7 @@ Disable/archive/restore, cancel/Escape, stale dependencies, malformed fingerprin
 Positive and negative external input tests. Required commands: npx vitest run test/console-services.test.ts test/console-services-http.test.ts --maxWorkers=2. Browser against isolated HTTPS synthetic state. Every described outcome must pass; screenshot acceptance includes layout, density, spacing, typography, controls, color and hierarchy; text enlargement includes document and text ranges.
 
 ## Commit boundary
-One coherent behavior commit with supporting tests/docs and this plan. Status: planned. Commit reference supplied by orchestrator closeout. Full-suite required only at milestone completion.
+One coherent behavior commit with supporting tests/docs and this plan. Status: complete. Commit reference supplied by orchestrator closeout. Full-suite required only at milestone completion.
+
+## Final evidence
+Focused 27 service/API/runtime tests pass; npm run build passes. Final full npm test -- --maxWorkers=2: 730/730 tests, 73 files, 105.77s; pretest build passes. Actual lifecycle browser plus predecessor import-recovery and existing services journey pass. Screenshot comparison and all criteria mapping: evidence/qa/secretsauce-mcp/milestone26/acceptance.md and evidence/ux-acceptance/secretsauce-mcp/milestone26/visual-review.md. No material unapproved drift. Review-only Enable preserves existing explicit save/review semantics; lifecycle optional fingerprint preserves legacy callers while all authorization/current lifecycle checks remain. New UI binds confirmation to fingerprint including draft generation. A direct service link required removing its query on return to list; broader browser-history behavior stays M32. Prior browser selectors were updated to link roles.

diff --git a/delivery/plans/secretsauce-mcp/milestone_26_plan_01.md b/delivery/plans/secretsauce-mcp/milestone_26_plan_01.md
@@ -6,8 +6,11 @@ Parent: 7adde2bdb8733c1476b10aa686b5b894897f432e. Product: secretsauce-mcp. Only
 Two independently reviewable outcomes: readable linked lifecycle rows; then guarded lifecycle actions on those rows. Preserve current draft/apply and archive semantics. Activation opens explicit existing configuration review, never silently applies. The later editor/history milestones remain excluded. No unresolved product decisions.
 
 ## Slices
-1. [Linked lifecycle/readiness rows](milestone_26_plan_01_slice_01.md) — complete (commit recorded by parent).
-2. [Confirmed lifecycle actions](milestone_26_plan_01_slice_02.md) — pending.
+1. [Linked lifecycle/readiness rows](milestone_26_plan_01_slice_01.md) — complete, 172210a.
+2. [Confirmed lifecycle actions](milestone_26_plan_01_slice_02.md) — complete (final commit recorded by parent).
 
 ## Validation
 Focused service tests per slice. At final milestone npm test -- --maxWorkers=2 and npm run build, sequentially from browser work. Actual HTTPS browser role/state/action journeys, 1440×1000 and 390×844 screenshots against approved services references, keyboard and 320px/200% text ranges. Evidence under evidence/ux-acceptance/secretsauce-mcp/milestone26 and evidence/qa/secretsauce-mcp/milestone26. No downstream transport change or new Docker-specific behavior.
+
+## Outcome
+All M26 criteria mapped and passed in evidence/qa/secretsauce-mcp/milestone26/acceptance.md. Only pre-existing test-results/ is excluded. No product authority, milestone status, deployment or live volumes changed.
